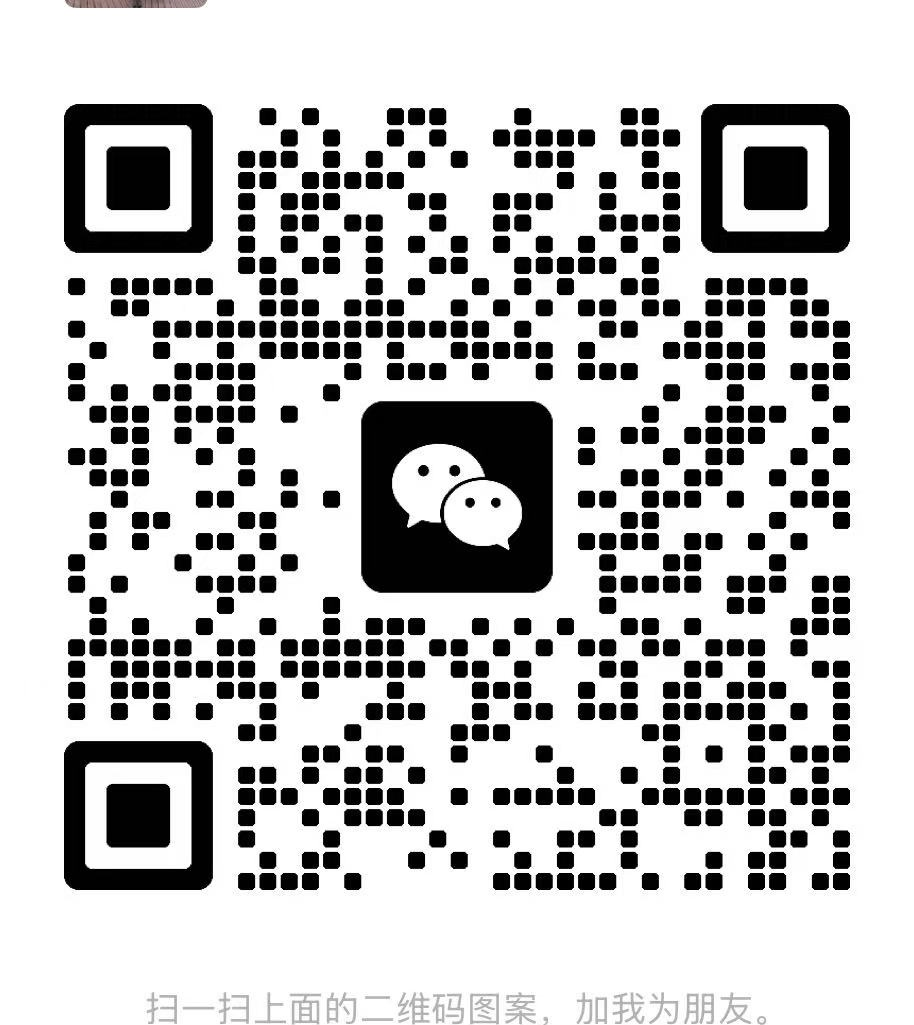
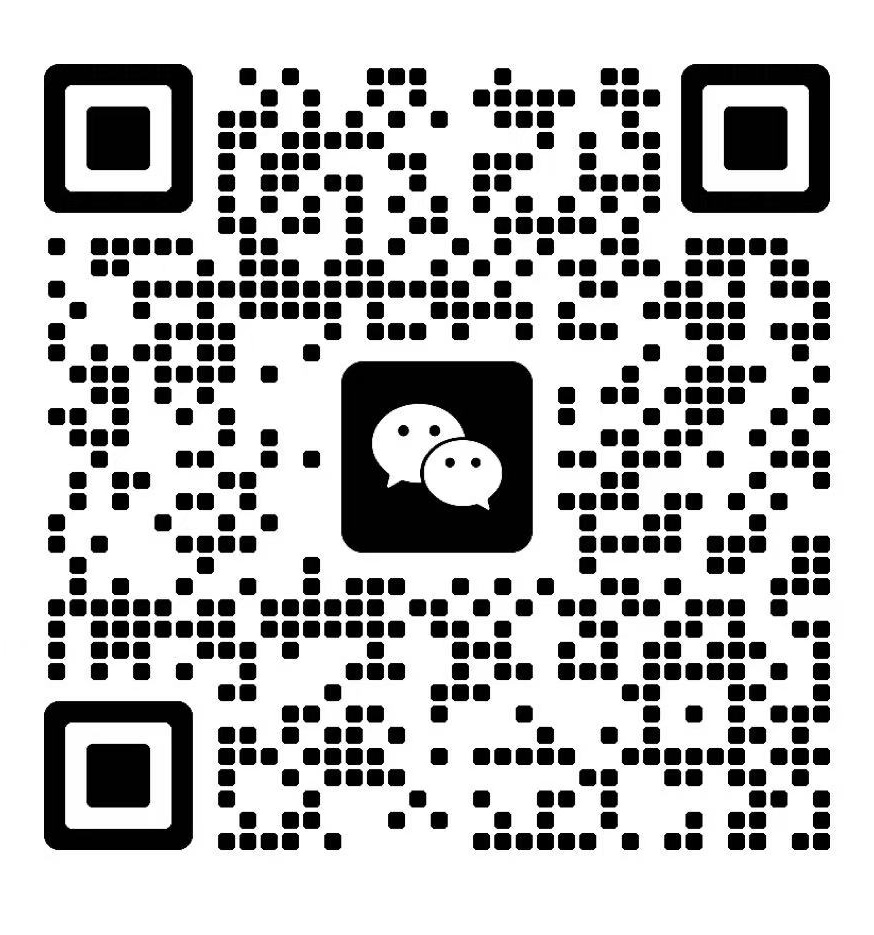
Checkpoint: Re-cropped WeChat QR code with adjusted parameters to completely remove top border and bottom gray text. Updated cropping script with crop_top=320 and crop_bottom=height-200 to show only the clean scannable QR code. Verified the QR code displays correctly on homepage contact section.

diff --git a/todo.md b/todo.md
@@ -109,3 +109,7 @@
 - [x] Crop QR code from uploaded image (remove header and footer text)
 - [x] Save cropped QR code to project public directory
 - [x] Update homepage to display WeChat QR code in contact section
+
+## WeChat QR Code Refinement
+- [x] Re-crop QR code to remove top edge and bottom gray text
+- [x] Verify cropped QR code displays correctly
